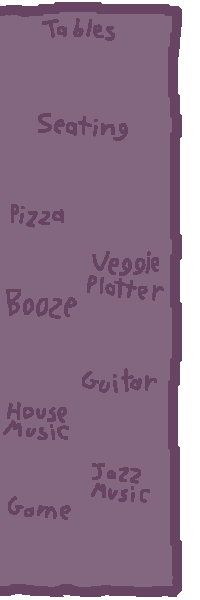
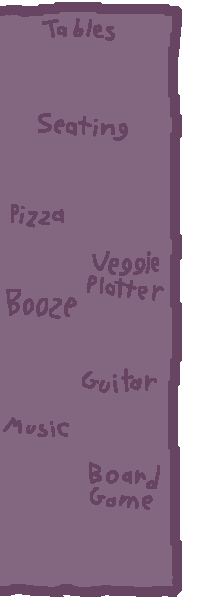
Removed jazz :(

Changed region(s): [[0.42, 0.75, 0.81, 0.87], [0.03, 0.66, 0.36, 0.75], [0.03, 0.81, 0.36, 0.87]]

diff --git a/src/house.js b/src/house.js
@@ -243,7 +243,7 @@ export default class House extends Thing {
     game.addThing(new Furniture(game.assets.textures.furniture_food_pizza, 'food_pizza', 12, [-38, -38, 38, 38], [42, 257], null, game.assets.textures.furniture_icon_food_pizza));
 
     // Misc.
-    game.addThing(new Furniture(game.assets.textures.furniture_game, 'game', 13, [-38, -38, 38, 38], [39, 552], null, game.assets.textures.furniture_icon_game));
+    game.addThing(new Furniture(game.assets.textures.furniture_game, 'game', 13, [-38, -38, 38, 38], [123, 550], null, game.assets.textures.furniture_icon_game));
     game.addThing(new Furniture(game.assets.textures.furniture_dancing, 'dancing', 14, [-77, -107, 77, 101], [38, 469], null, game.assets.textures.furniture_icon_dancing));
     game.addThing(new Furniture(game.assets.textures.furniture_guitar, 'guitar', 15, [-27, -46, 27, 46], [121, 426], null, game.assets.textures.furniture_icon_guitar));
 
